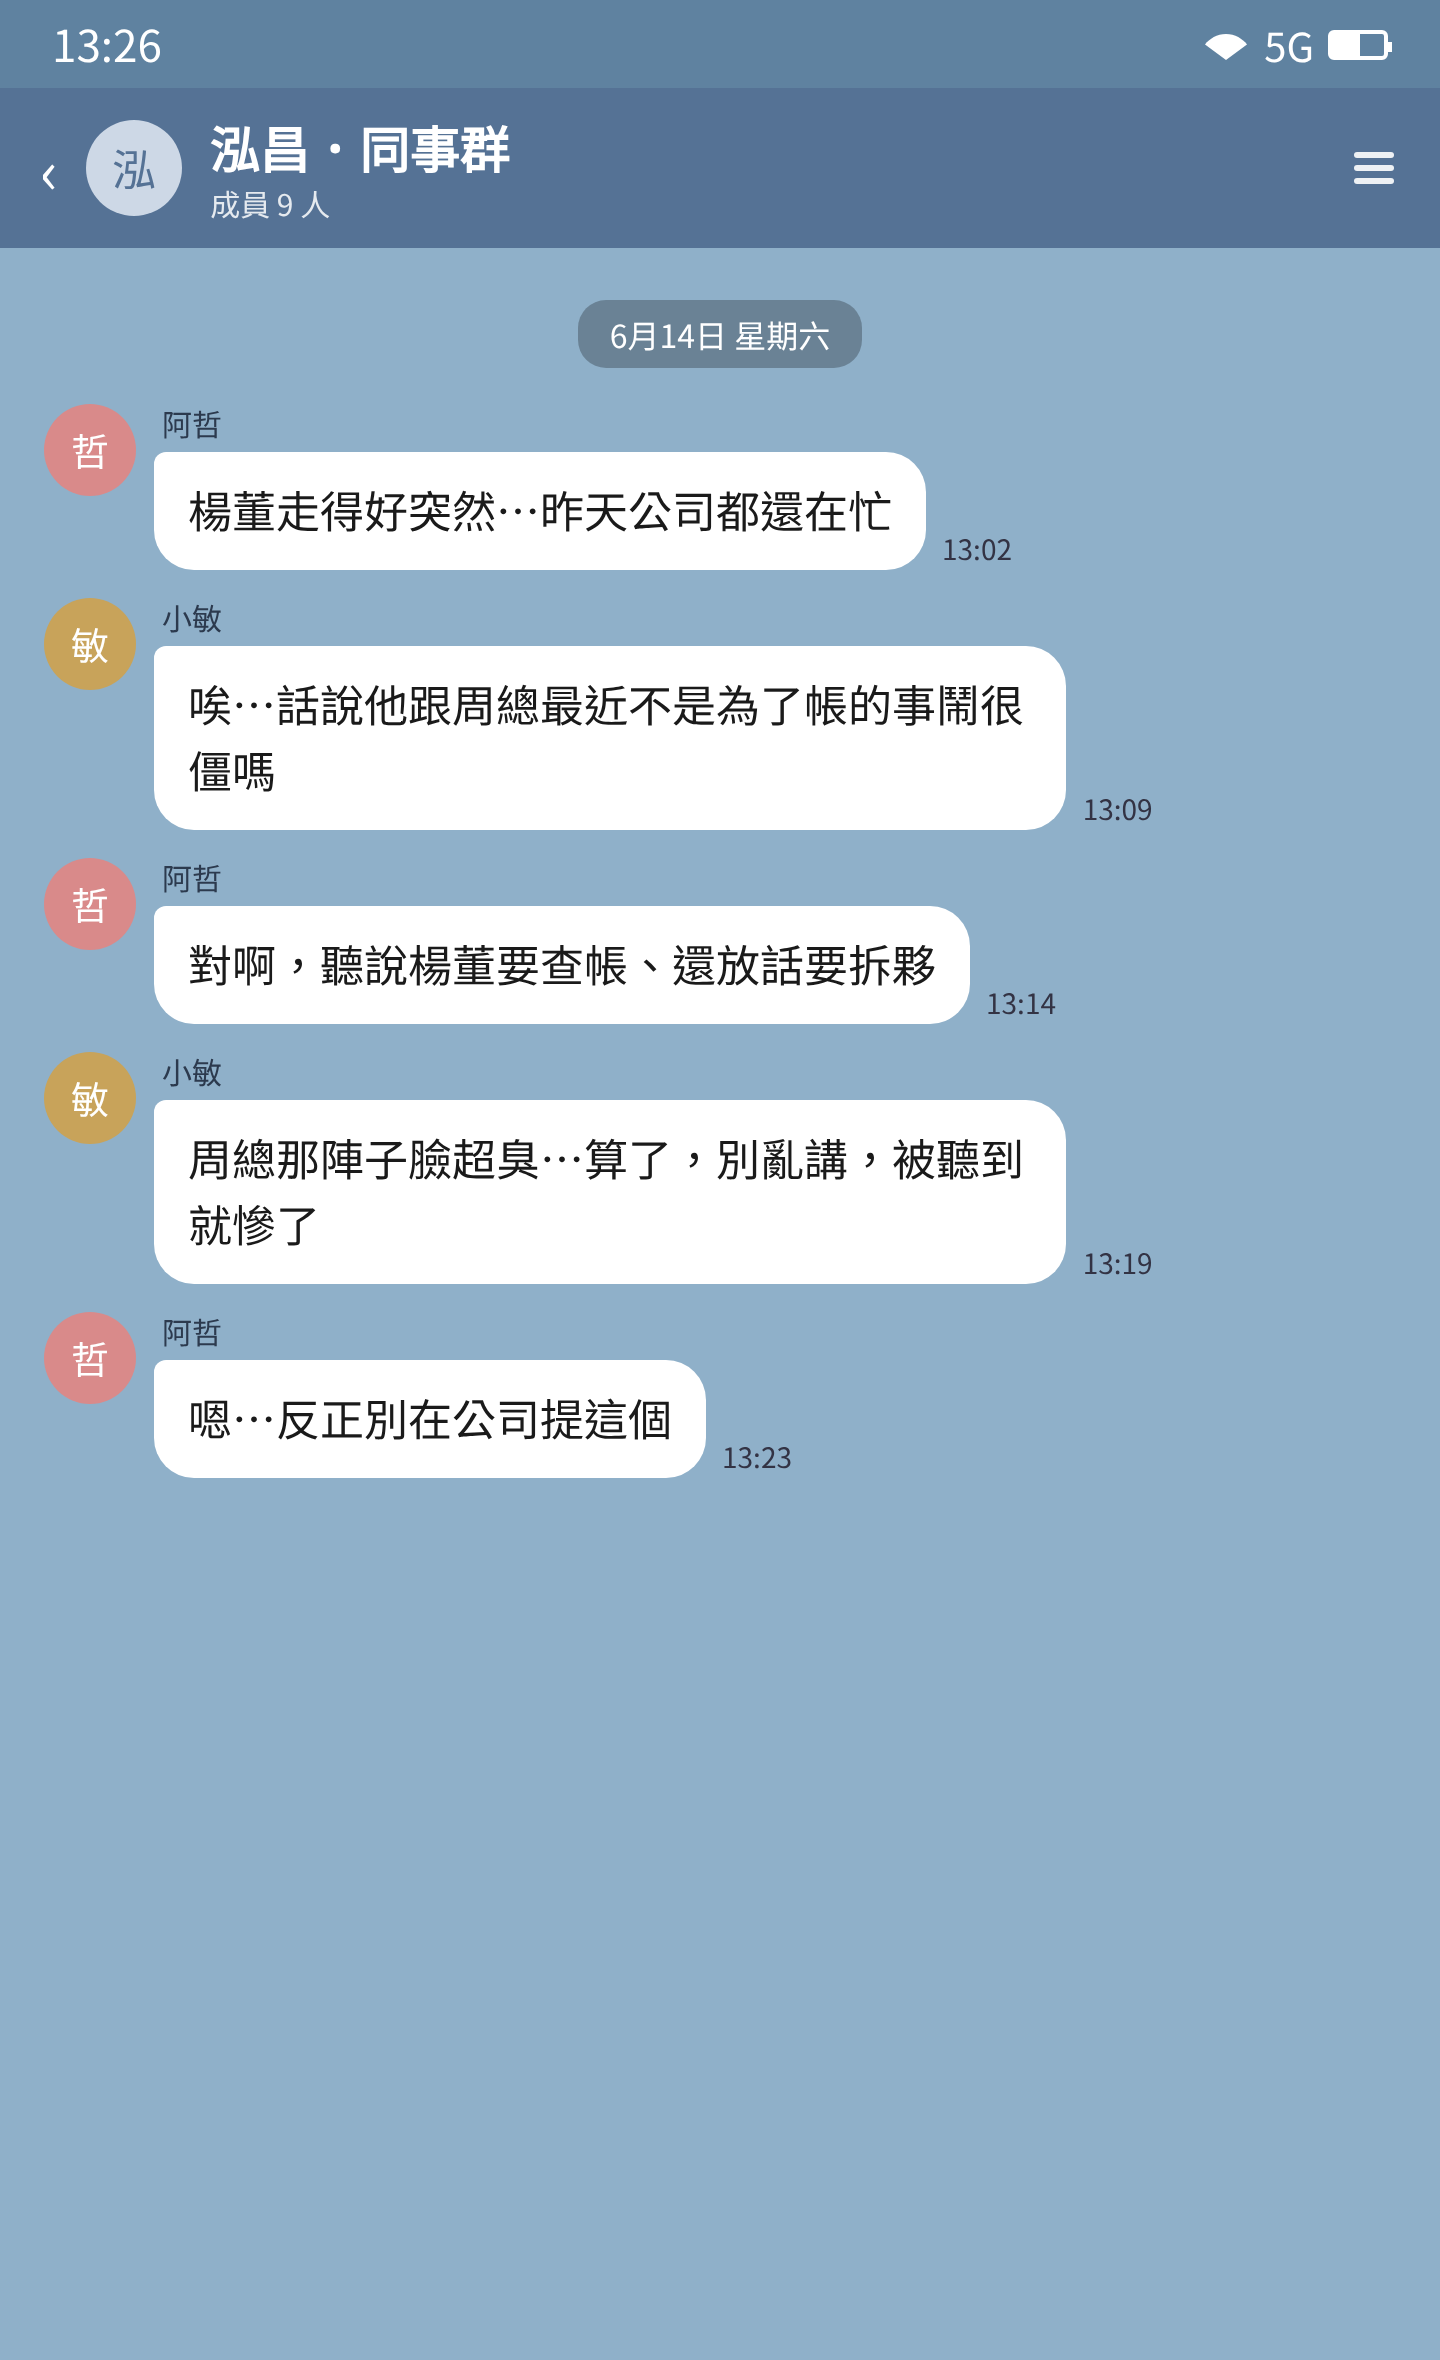
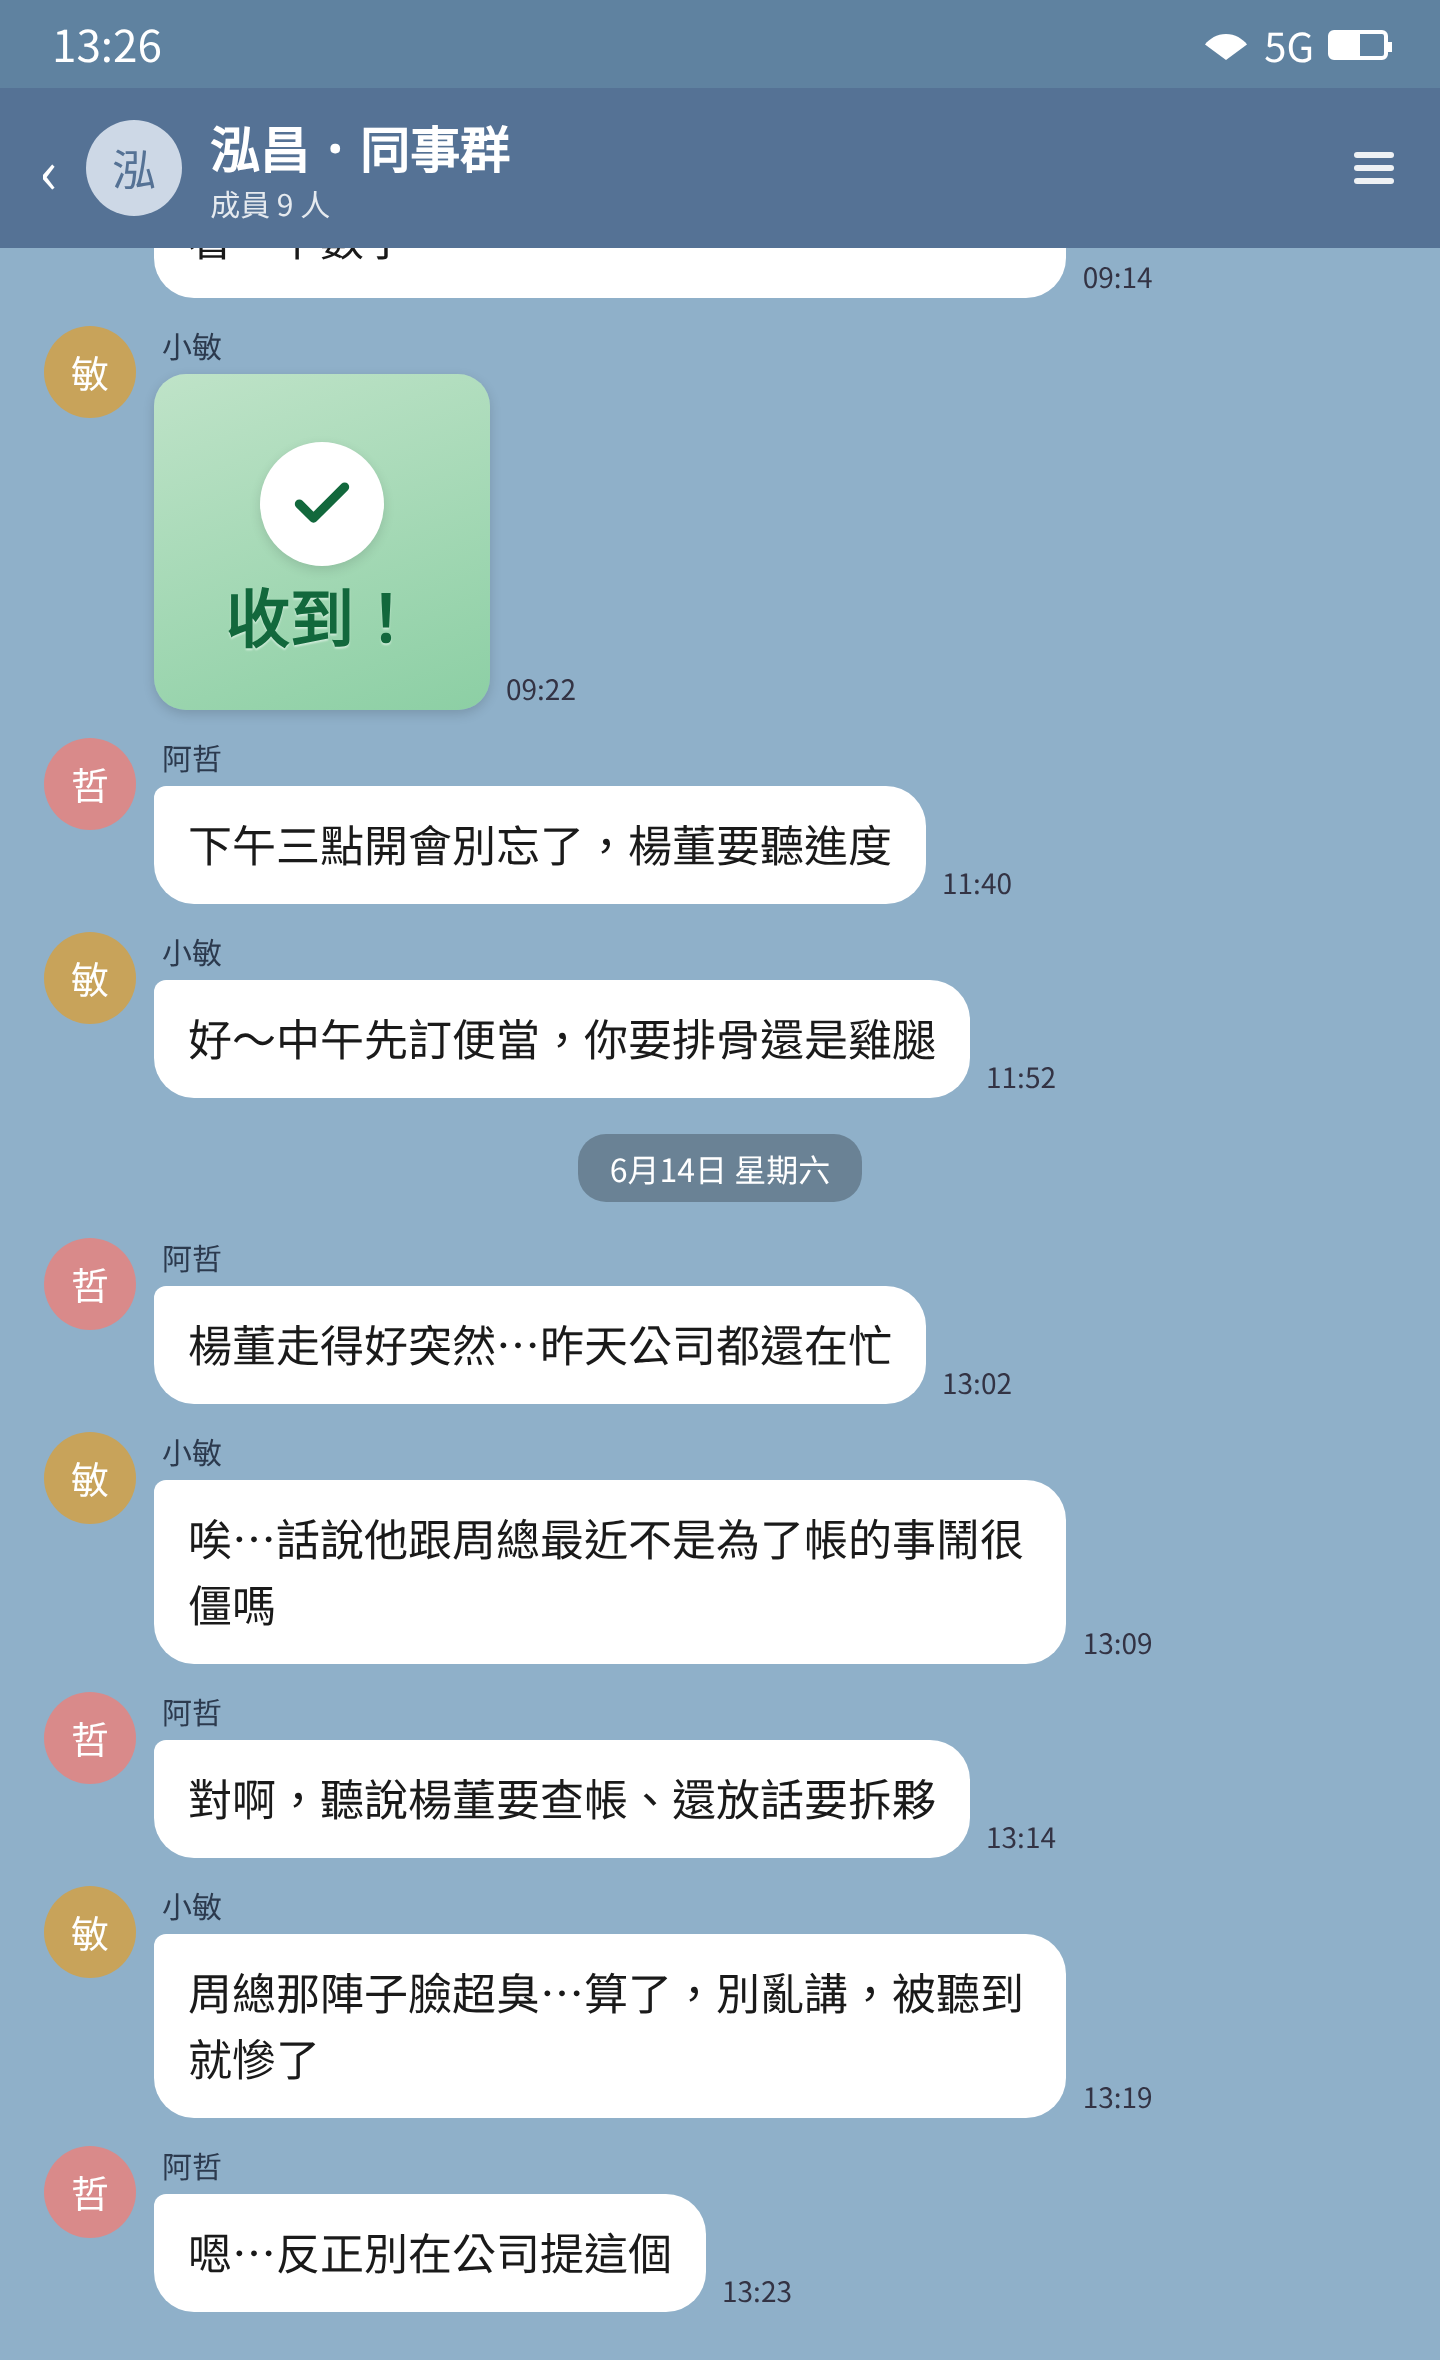
puzzle(CASE-12): 同事群p2/p3補先前工作日日常+貼圖(像長期在聊)
照家屬群做法:靠底對齊+辦公室『收到！/我來！』綠貼圖+補工作日日常(p2 6/12報表開會訂便當、p3 6/10拜訪廠商),對照命案討論。已上圖床+清快取+cp甜甜。

diff --git a/tools/puzzle-quest/posters/p2-coworker-line.html b/tools/puzzle-quest/posters/p2-coworker-line.html
@@ -11,7 +11,10 @@
   .head .name{font-size:25px;font-weight:700;flex:1;}
   .head .name small{display:block;font-size:15px;font-weight:400;opacity:.85;}
   .head .ic{display:flex;align-items:center;opacity:.9;}
-  .msgs{flex:1;padding:22px 22px 30px;display:flex;flex-direction:column;gap:14px;overflow:hidden;}
+  .msgs{flex:1;padding:22px 22px 24px;display:flex;flex-direction:column;justify-content:flex-end;gap:14px;overflow:hidden;}
+  .sticker{width:168px;height:168px;border-radius:16px;background:linear-gradient(160deg,#bfe3c8,#8ccfa4);position:relative;overflow:hidden;box-shadow:0 2px 6px rgba(0,0,0,.15);}
+  .sticker .chk{position:absolute;left:50%;top:34px;transform:translateX(-50%);width:62px;height:62px;border-radius:50%;background:#fff;display:flex;align-items:center;justify-content:center;box-shadow:0 2px 6px rgba(0,0,0,.12);}
+  .sticker .st{position:absolute;left:0;right:0;bottom:24px;text-align:center;color:#12683c;font-weight:900;font-size:32px;text-shadow:0 1px 1px rgba(255,255,255,.5);}
   .day{align-self:center;background:rgba(0,0,0,.26);color:#fff;font-size:16px;padding:5px 16px;border-radius:14px;margin:4px 0;}
   .sys{align-self:center;color:#334;font-size:15px;opacity:.8;}
   .row{display:flex;align-items:flex-start;gap:9px;max-width:82%;}
@@ -37,6 +40,24 @@
       <div class="ic"><svg width="26" height="26" viewBox="0 0 26 26" fill="#fff"><rect x="3" y="5" width="20" height="3" rx="1.5"/><rect x="3" y="11.5" width="20" height="3" rx="1.5"/><rect x="3" y="18" width="20" height="3" rx="1.5"/></svg></div>
     </div>
     <div class="msgs">
+      <div class="day">6月12日 星期四</div>
+
+      <div class="row them"><div class="av2 a1">哲</div><div class="col"><div class="who">阿哲</div>
+        <div class="line"><div class="bubble">早，這個月的報表我放你桌上了，麻煩幫我看一下數字</div><div class="time">09:14</div></div>
+      </div></div>
+
+      <div class="row them"><div class="av2 a3">敏</div><div class="col"><div class="who">小敏</div>
+        <div class="line"><div class="sticker"><div class="chk"><svg width="34" height="34" viewBox="0 0 24 24" fill="none" stroke="#12683c" stroke-width="3.2" stroke-linecap="round" stroke-linejoin="round"><path d="M20 6 9 17l-5-5"/></svg></div><div class="st">收到！</div></div><div class="time">09:22</div></div>
+      </div></div>
+
+      <div class="row them"><div class="av2 a1">哲</div><div class="col"><div class="who">阿哲</div>
+        <div class="line"><div class="bubble">下午三點開會別忘了，楊董要聽進度</div><div class="time">11:40</div></div>
+      </div></div>
+
+      <div class="row them"><div class="av2 a3">敏</div><div class="col"><div class="who">小敏</div>
+        <div class="line"><div class="bubble">好～中午先訂便當，你要排骨還是雞腿</div><div class="time">11:52</div></div>
+      </div></div>
+
       <div class="day">6月14日 星期六</div>
 
       <div class="row them"><div class="av2 a1">哲</div><div class="col"><div class="who">阿哲</div>

diff --git a/tools/puzzle-quest/posters/p3-coworker-line.html b/tools/puzzle-quest/posters/p3-coworker-line.html
@@ -11,7 +11,10 @@
   .head .name{font-size:25px;font-weight:700;flex:1;}
   .head .name small{display:block;font-size:15px;font-weight:400;opacity:.85;}
   .head .ic{display:flex;align-items:center;opacity:.9;}
-  .msgs{flex:1;padding:22px 22px 30px;display:flex;flex-direction:column;gap:14px;overflow:hidden;}
+  .msgs{flex:1;padding:22px 22px 24px;display:flex;flex-direction:column;justify-content:flex-end;gap:14px;overflow:hidden;}
+  .sticker{width:168px;height:168px;border-radius:16px;background:linear-gradient(160deg,#bfe3c8,#8ccfa4);position:relative;overflow:hidden;box-shadow:0 2px 6px rgba(0,0,0,.15);}
+  .sticker .chk{position:absolute;left:50%;top:34px;transform:translateX(-50%);width:62px;height:62px;border-radius:50%;background:#fff;display:flex;align-items:center;justify-content:center;box-shadow:0 2px 6px rgba(0,0,0,.12);}
+  .sticker .st{position:absolute;left:0;right:0;bottom:24px;text-align:center;color:#12683c;font-weight:900;font-size:32px;text-shadow:0 1px 1px rgba(255,255,255,.5);}
   .day{align-self:center;background:rgba(0,0,0,.26);color:#fff;font-size:16px;padding:5px 16px;border-radius:14px;margin:4px 0;}
   .sys{align-self:center;color:#334;font-size:15px;opacity:.8;}
   .row{display:flex;align-items:flex-start;gap:9px;max-width:82%;}
@@ -37,6 +40,24 @@
       <div class="ic"><svg width="26" height="26" viewBox="0 0 26 26" fill="#fff"><rect x="3" y="5" width="20" height="3" rx="1.5"/><rect x="3" y="11.5" width="20" height="3" rx="1.5"/><rect x="3" y="18" width="20" height="3" rx="1.5"/></svg></div>
     </div>
     <div class="msgs">
+      <div class="day">6月10日 星期二</div>
+
+      <div class="row them"><div class="av2 a1">哲</div><div class="col"><div class="who">阿哲</div>
+        <div class="line"><div class="bubble">明天要去拜訪宏益的廠商，誰有空一起？</div><div class="time">15:40</div></div>
+      </div></div>
+
+      <div class="row them"><div class="av2 a3">敏</div><div class="col"><div class="who">小敏</div>
+        <div class="line"><div class="sticker"><div class="chk"><svg width="34" height="34" viewBox="0 0 24 24" fill="none" stroke="#12683c" stroke-width="3.2" stroke-linecap="round" stroke-linejoin="round"><path d="M20 6 9 17l-5-5"/></svg></div><div class="st">我來！</div></div><div class="time">15:44</div></div>
+      </div></div>
+
+      <div class="row them"><div class="av2 a3">敏</div><div class="col"><div class="who">小敏</div>
+        <div class="line"><div class="bubble">我去，順便帶上次那批樣品過去</div><div class="time">15:45</div></div>
+      </div></div>
+
+      <div class="row them"><div class="av2 a1">哲</div><div class="col"><div class="who">阿哲</div>
+        <div class="line"><div class="bubble">讚，早上九點樓下集合</div><div class="time">15:51</div></div>
+      </div></div>
+
       <div class="day">6月15日 星期日</div>
 
       <div class="row them"><div class="av2 a1">哲</div><div class="col"><div class="who">阿哲</div>
